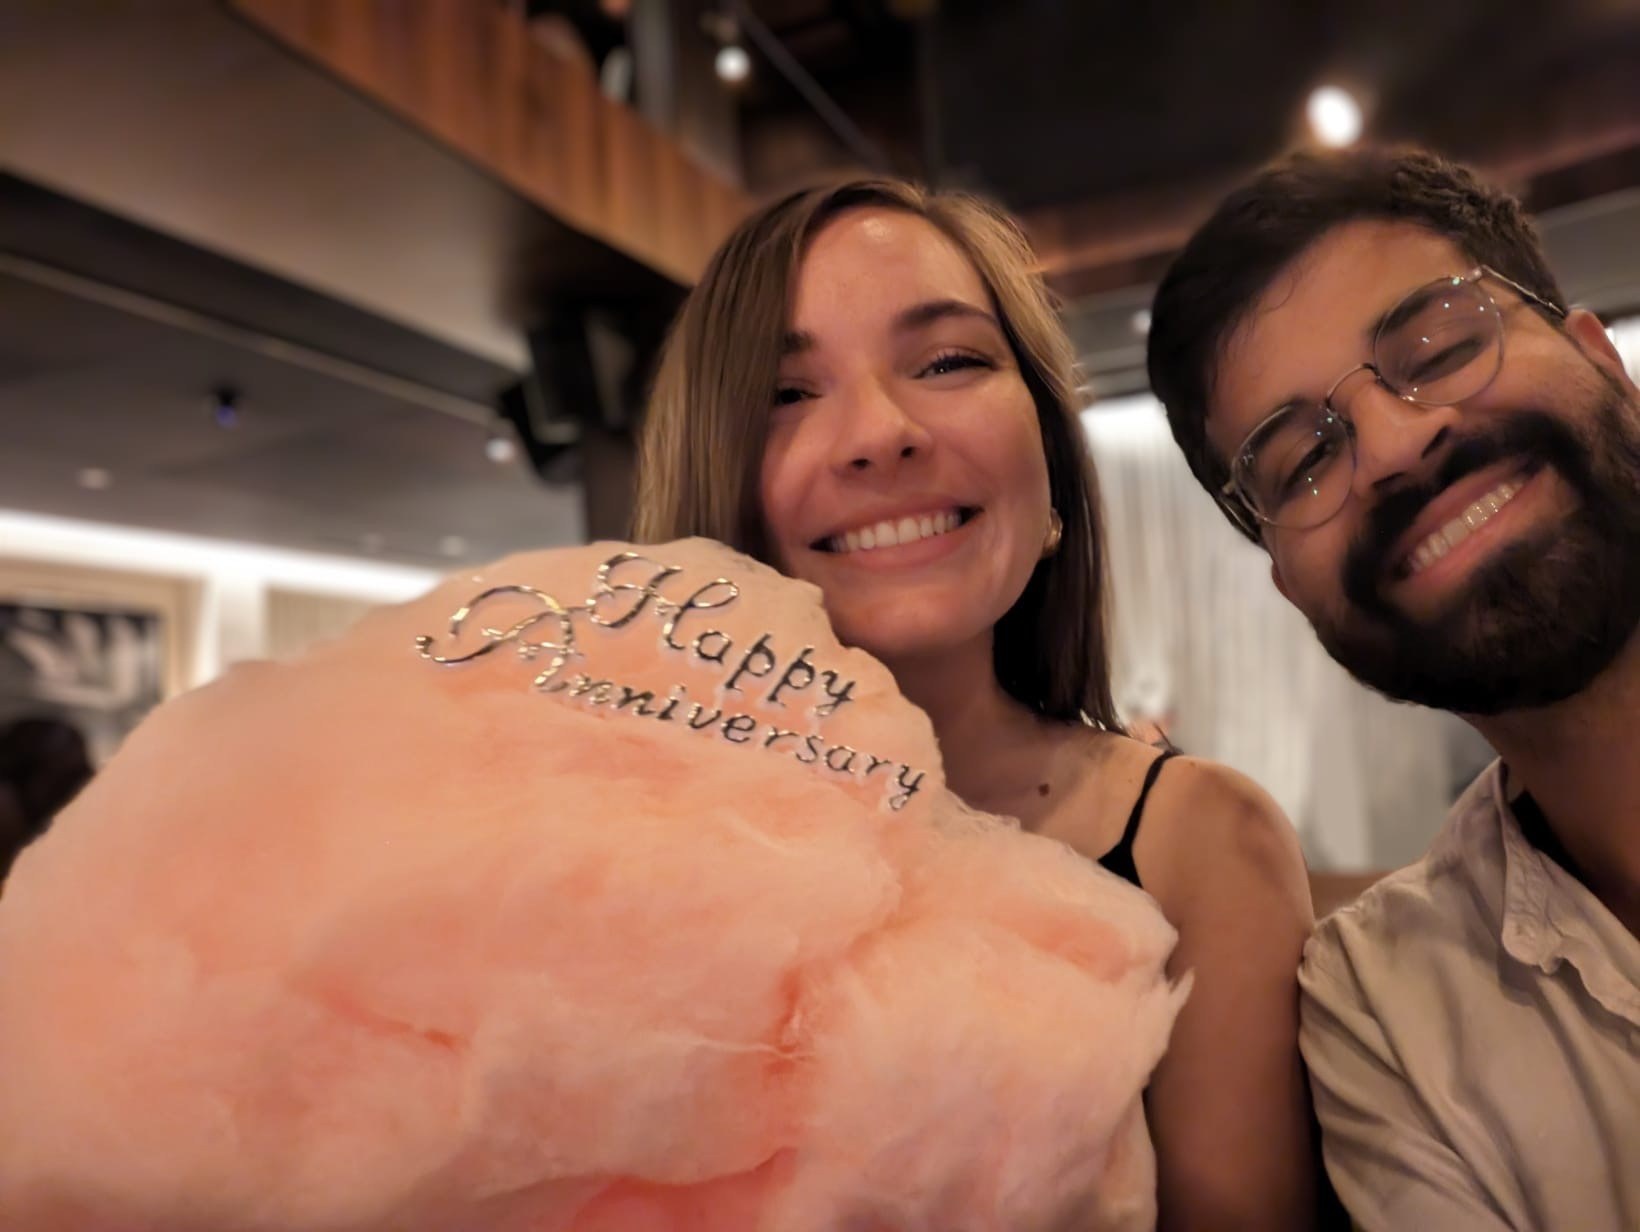
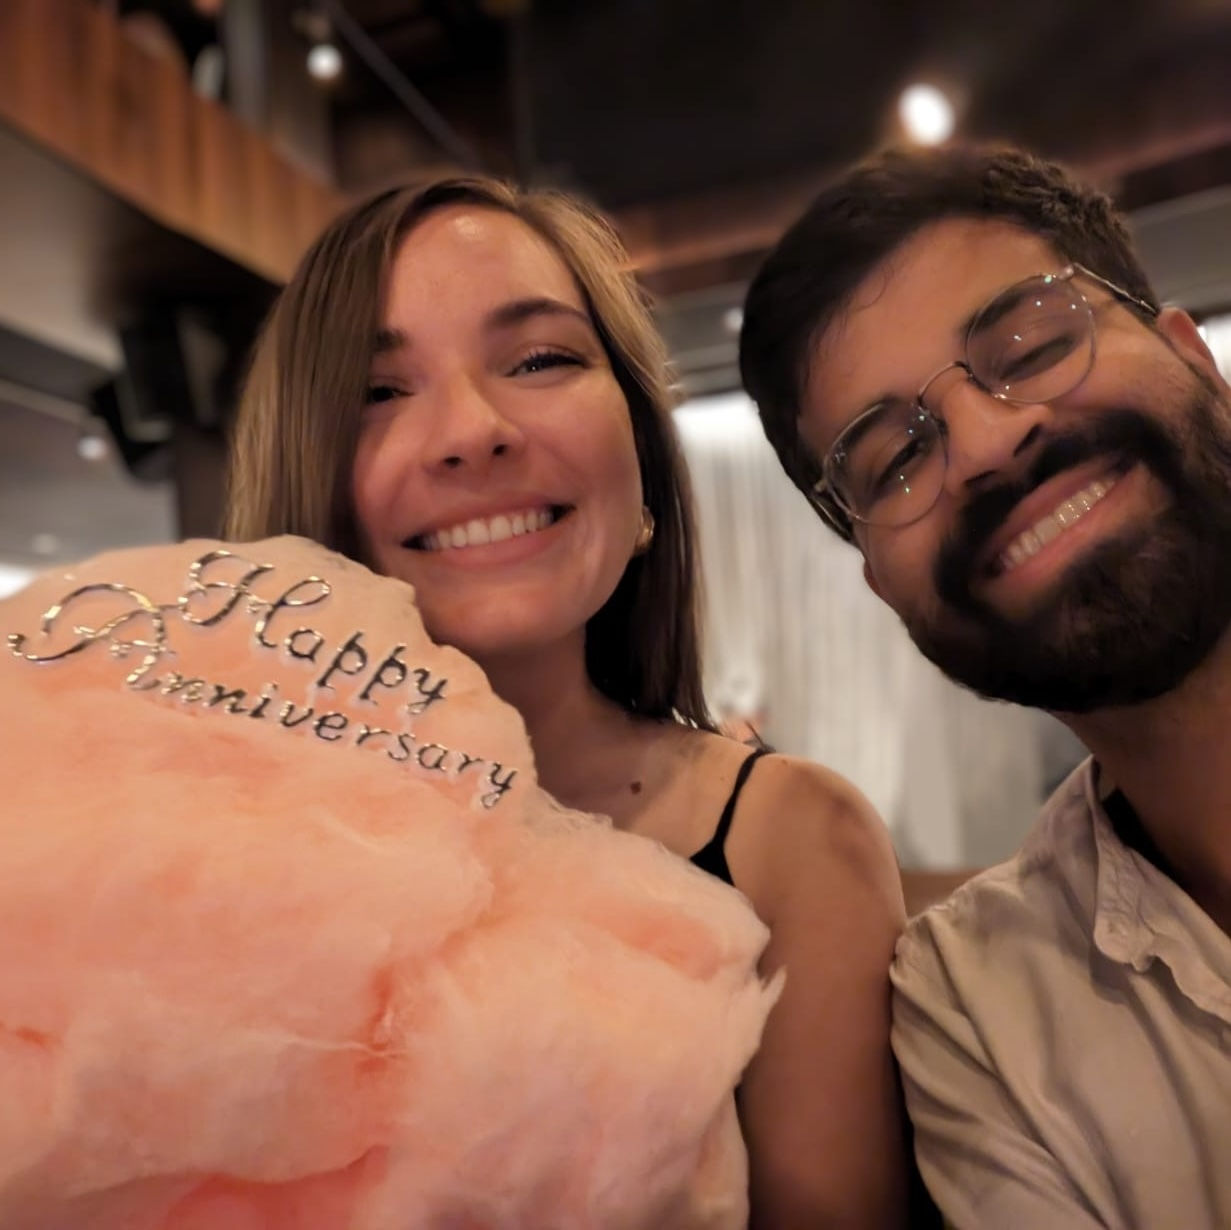
FAQ/Rec updates

diff --git a/index.html b/index.html
@@ -55,7 +55,7 @@
                 <button class="btn btn-primary btn-lg px-5 py-3" onclick="window.open('https://withjoy.com/janeandkiran', '_blank')"><span>RSVP</span></button>
               </div>
               <div class="text-center more-info-button">
-                <button class="btn btn-primary btn-lg px-5 py-3" onclick="showMoreInfo()"><span>Please complete by Sept 23</span></button>
+                <button class="btn btn-primary btn-lg px-5 py-3" onclick="window.open('https://withjoy.com/janeandkiran', '_blank')"><span>Please complete by September 1st</span></button>
               </div>
             </div>
         </div>
@@ -252,11 +252,10 @@
         { name: 'Lakefront Trail',              category: 'activity',   coords: [-87.624906, 41.911249], description: '18 miles of paved trail along Lake Michigan, navigating through Chicago\'s parks and beaches.' },
         { name: 'The Art Institute of Chicago', category: 'activity',   coords: [-87.62242550511456, 41.87964301196217], description: 'World-class collection spanning 5,000 years of art. Jane\'s favorite is the Stuart Davis collection, Kiran\'s is all the impressionism!' },
         { name: 'Bears at Soldier Field',       category: 'activity',   coords: [-87.61673131861042, 41.862409054862354], description: 'While we\'re a Kansas City Chiefs household, the Bears are Chicago\'s NFL team (for now...). Catch a game the week after the wedding!' },
-        { name: 'Lincoln Park Zoo & Conservatory', category: 'activity', coords: [-87.63369404953578, 41.9217543483888], description: 'A free world-class zoo right in the heart of Lincoln Park. The adjoining conservatory is gorgeous in the autumn.' },
+        { name: 'Lincoln Park Zoo & Conservatory', category: 'activity', coords: [-87.63369404953578, 41.9217543483888], description: 'A free zoo right in the heart of Lincoln Park. The adjoining conservatory is gorgeous in the autumn.' },
         { name: 'Museum of Science & Industry', category: 'activity',   coords: [-87.58306209200215, 41.790615358650115], description: 'One of the largest science museums in the Western Hemisphere. A full day out in Hyde Park.' },
-        { name: 'Field Museum',                 category: 'activity',   coords: [-87.61699123096692, 41.86631689992131], description: 'Natural history at its finest – home to Sue, one of the most complete T. rex skeletons ever found.' },
+        { name: 'Field Museum',                 category: 'activity',   coords: [-87.61699123096692, 41.86631689992131], description: 'Chicago\'s excellent natural history museum – home to Sue, one of the most complete T. rex skeletons ever found.' },
         { name: 'Wicker Park Farmers\' Market', category: 'activity',   coords: [-87.67708385728773, 41.90797254488862], description: 'Jane\'s favourite Sunday morning ritual – fresh produce, flowers, and sweet treats. Get there early!' },
-        { name: 'Walk Up Michigan Ave', category: 'activity',   coords: [-87.62401933005067, 41.889706694194636], description: 'Touristy? Yes... but amazing nonetheless. When Kiran first moved to Chicago, this walk and seeing all the skyscrapers was a formative experience, ' },
 
         // Hotels
         { name: 'Hyatt Place Wicker Park',      category: 'hotel',      coords: [-87.6672841, 41.9103888], description: 'A short ride from the venue with great access to the neighbourhood.' },
@@ -451,7 +450,7 @@
         },
         {
           question: "Can I bring a plus one?",
-          answer: "Please check your <a href='https://withjoy.com/jane-and-kiran/rsvp' target='_blank'>RSVP page</a> for details about plus ones. If you have any questions, feel free to reach out to us directly."
+          answer: "Please check your <a href='https://withjoy.com/janeandkiran/rsvp' target='_blank'>RSVP page</a> for details about plus ones. If you have any questions, feel free to reach out to us directly."
         },
         {
           question: "What should I wear?",
